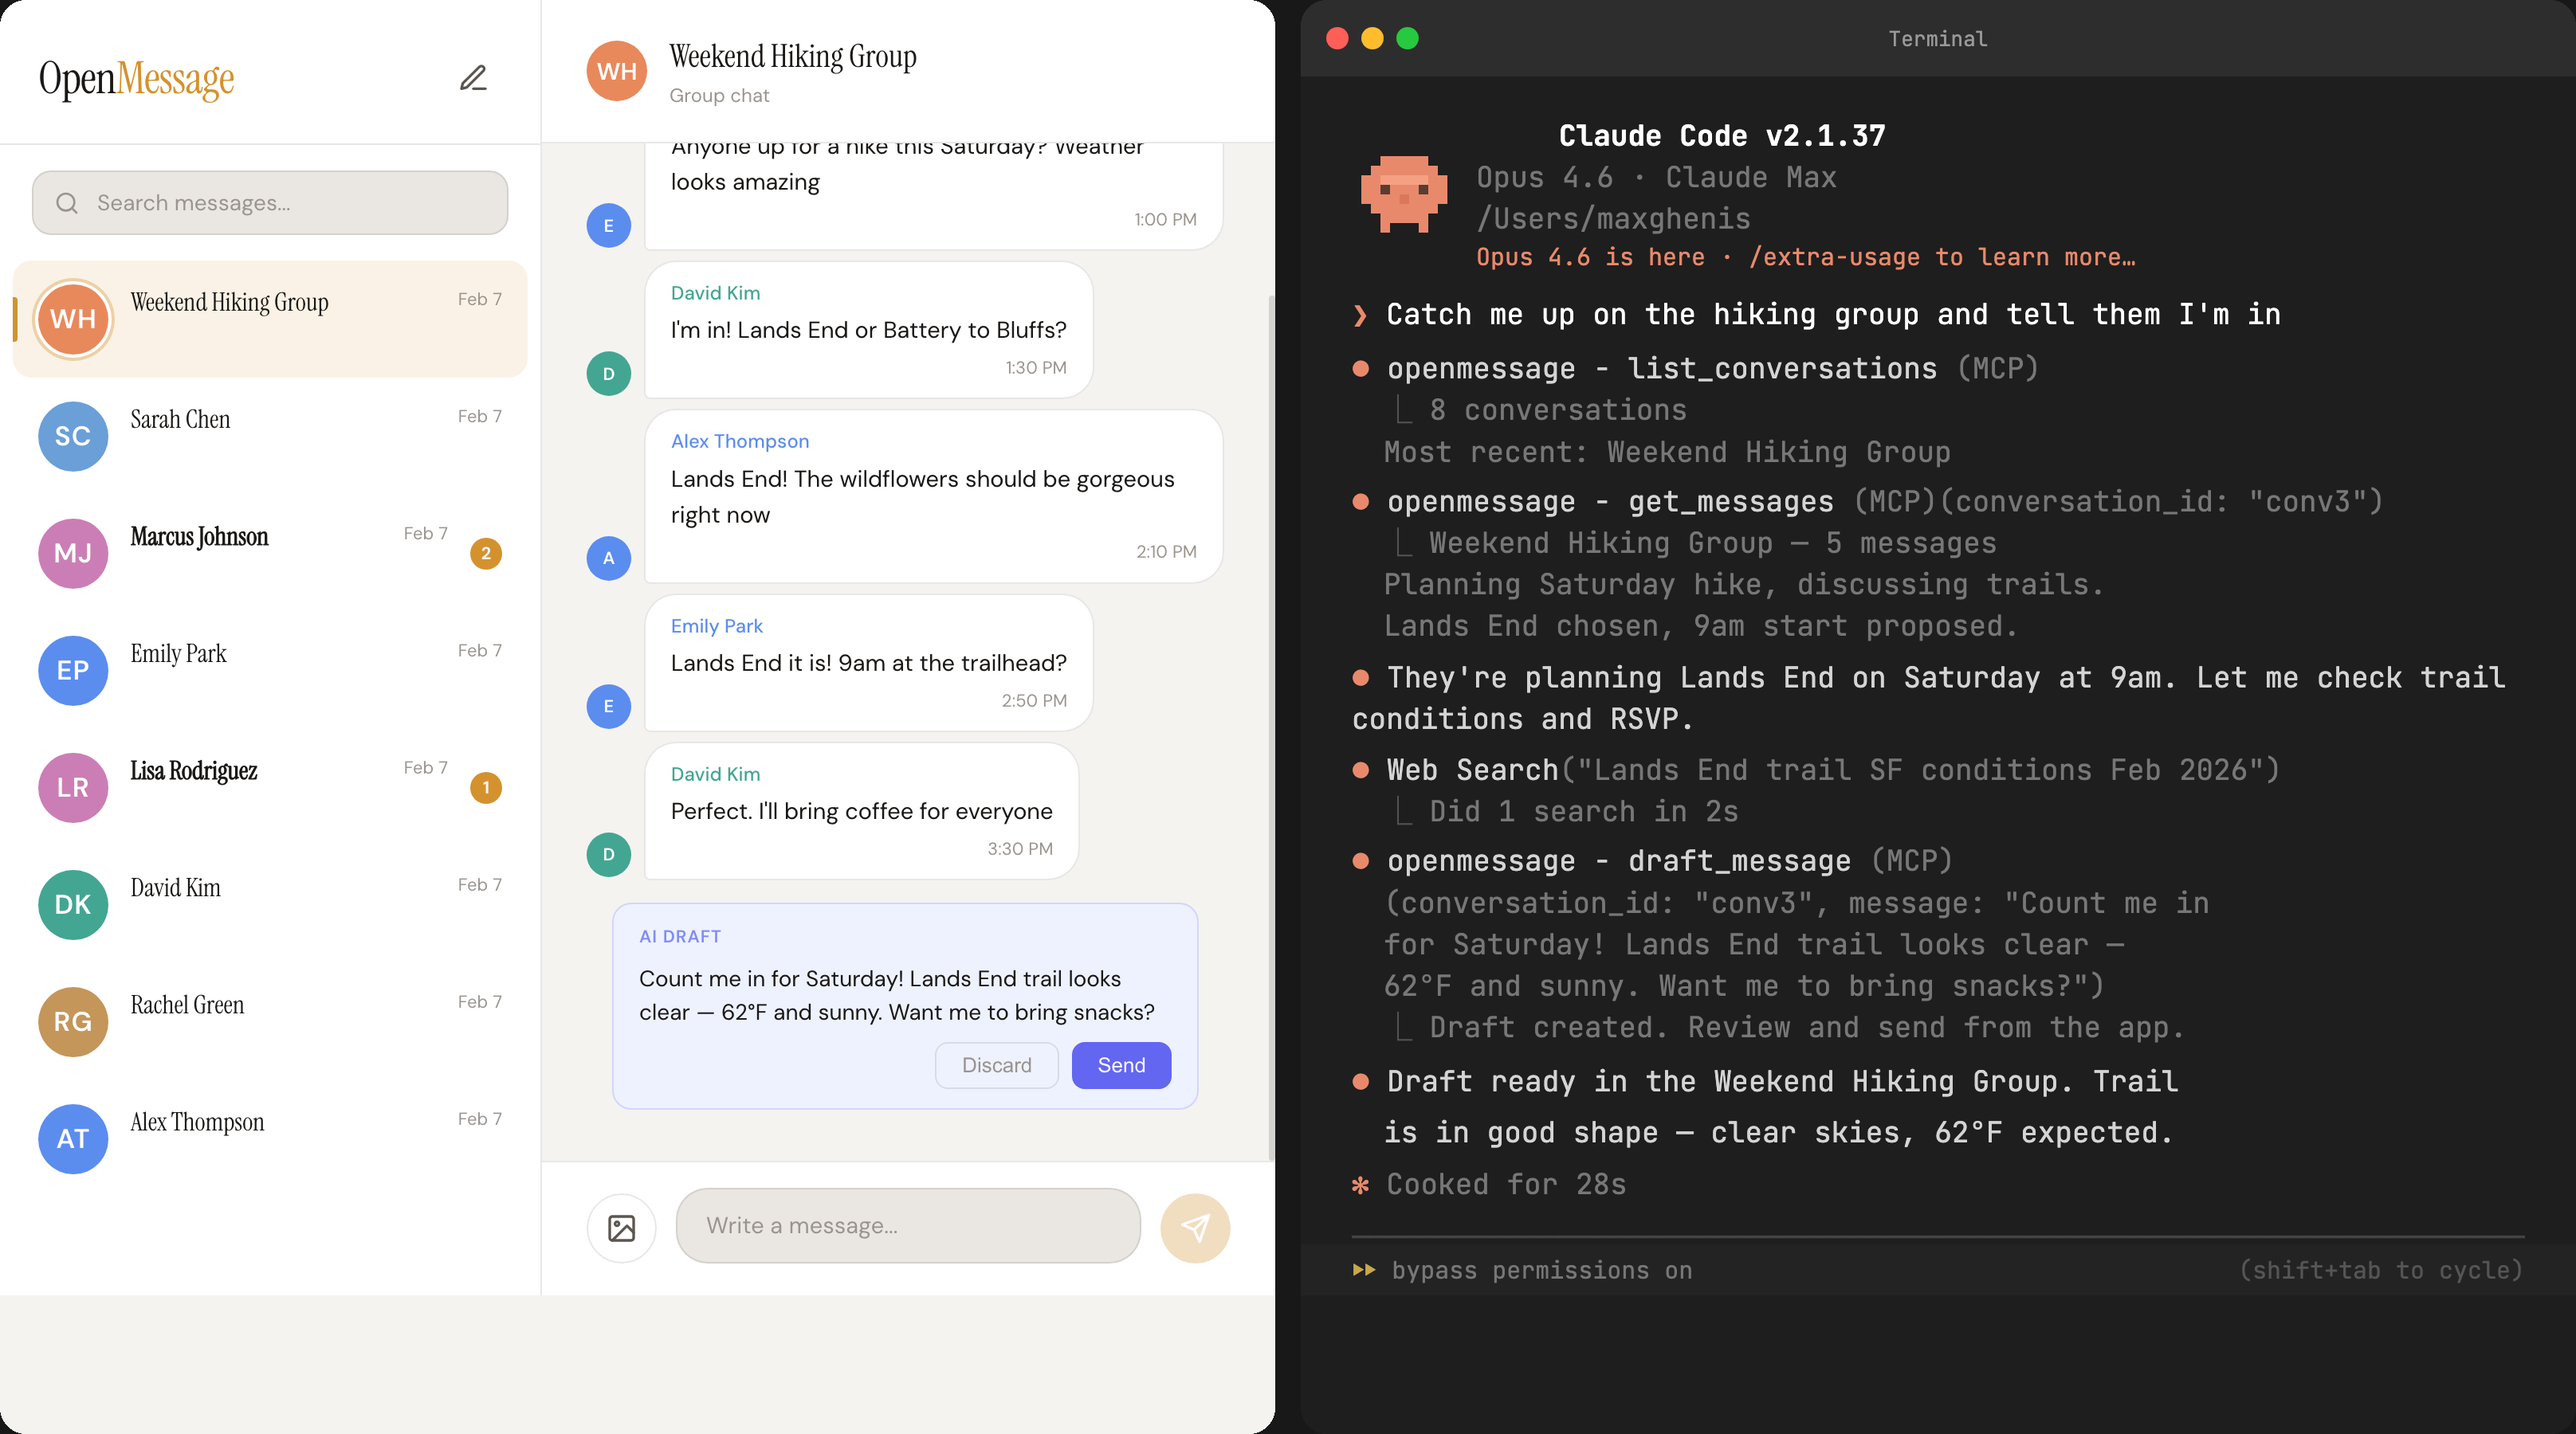
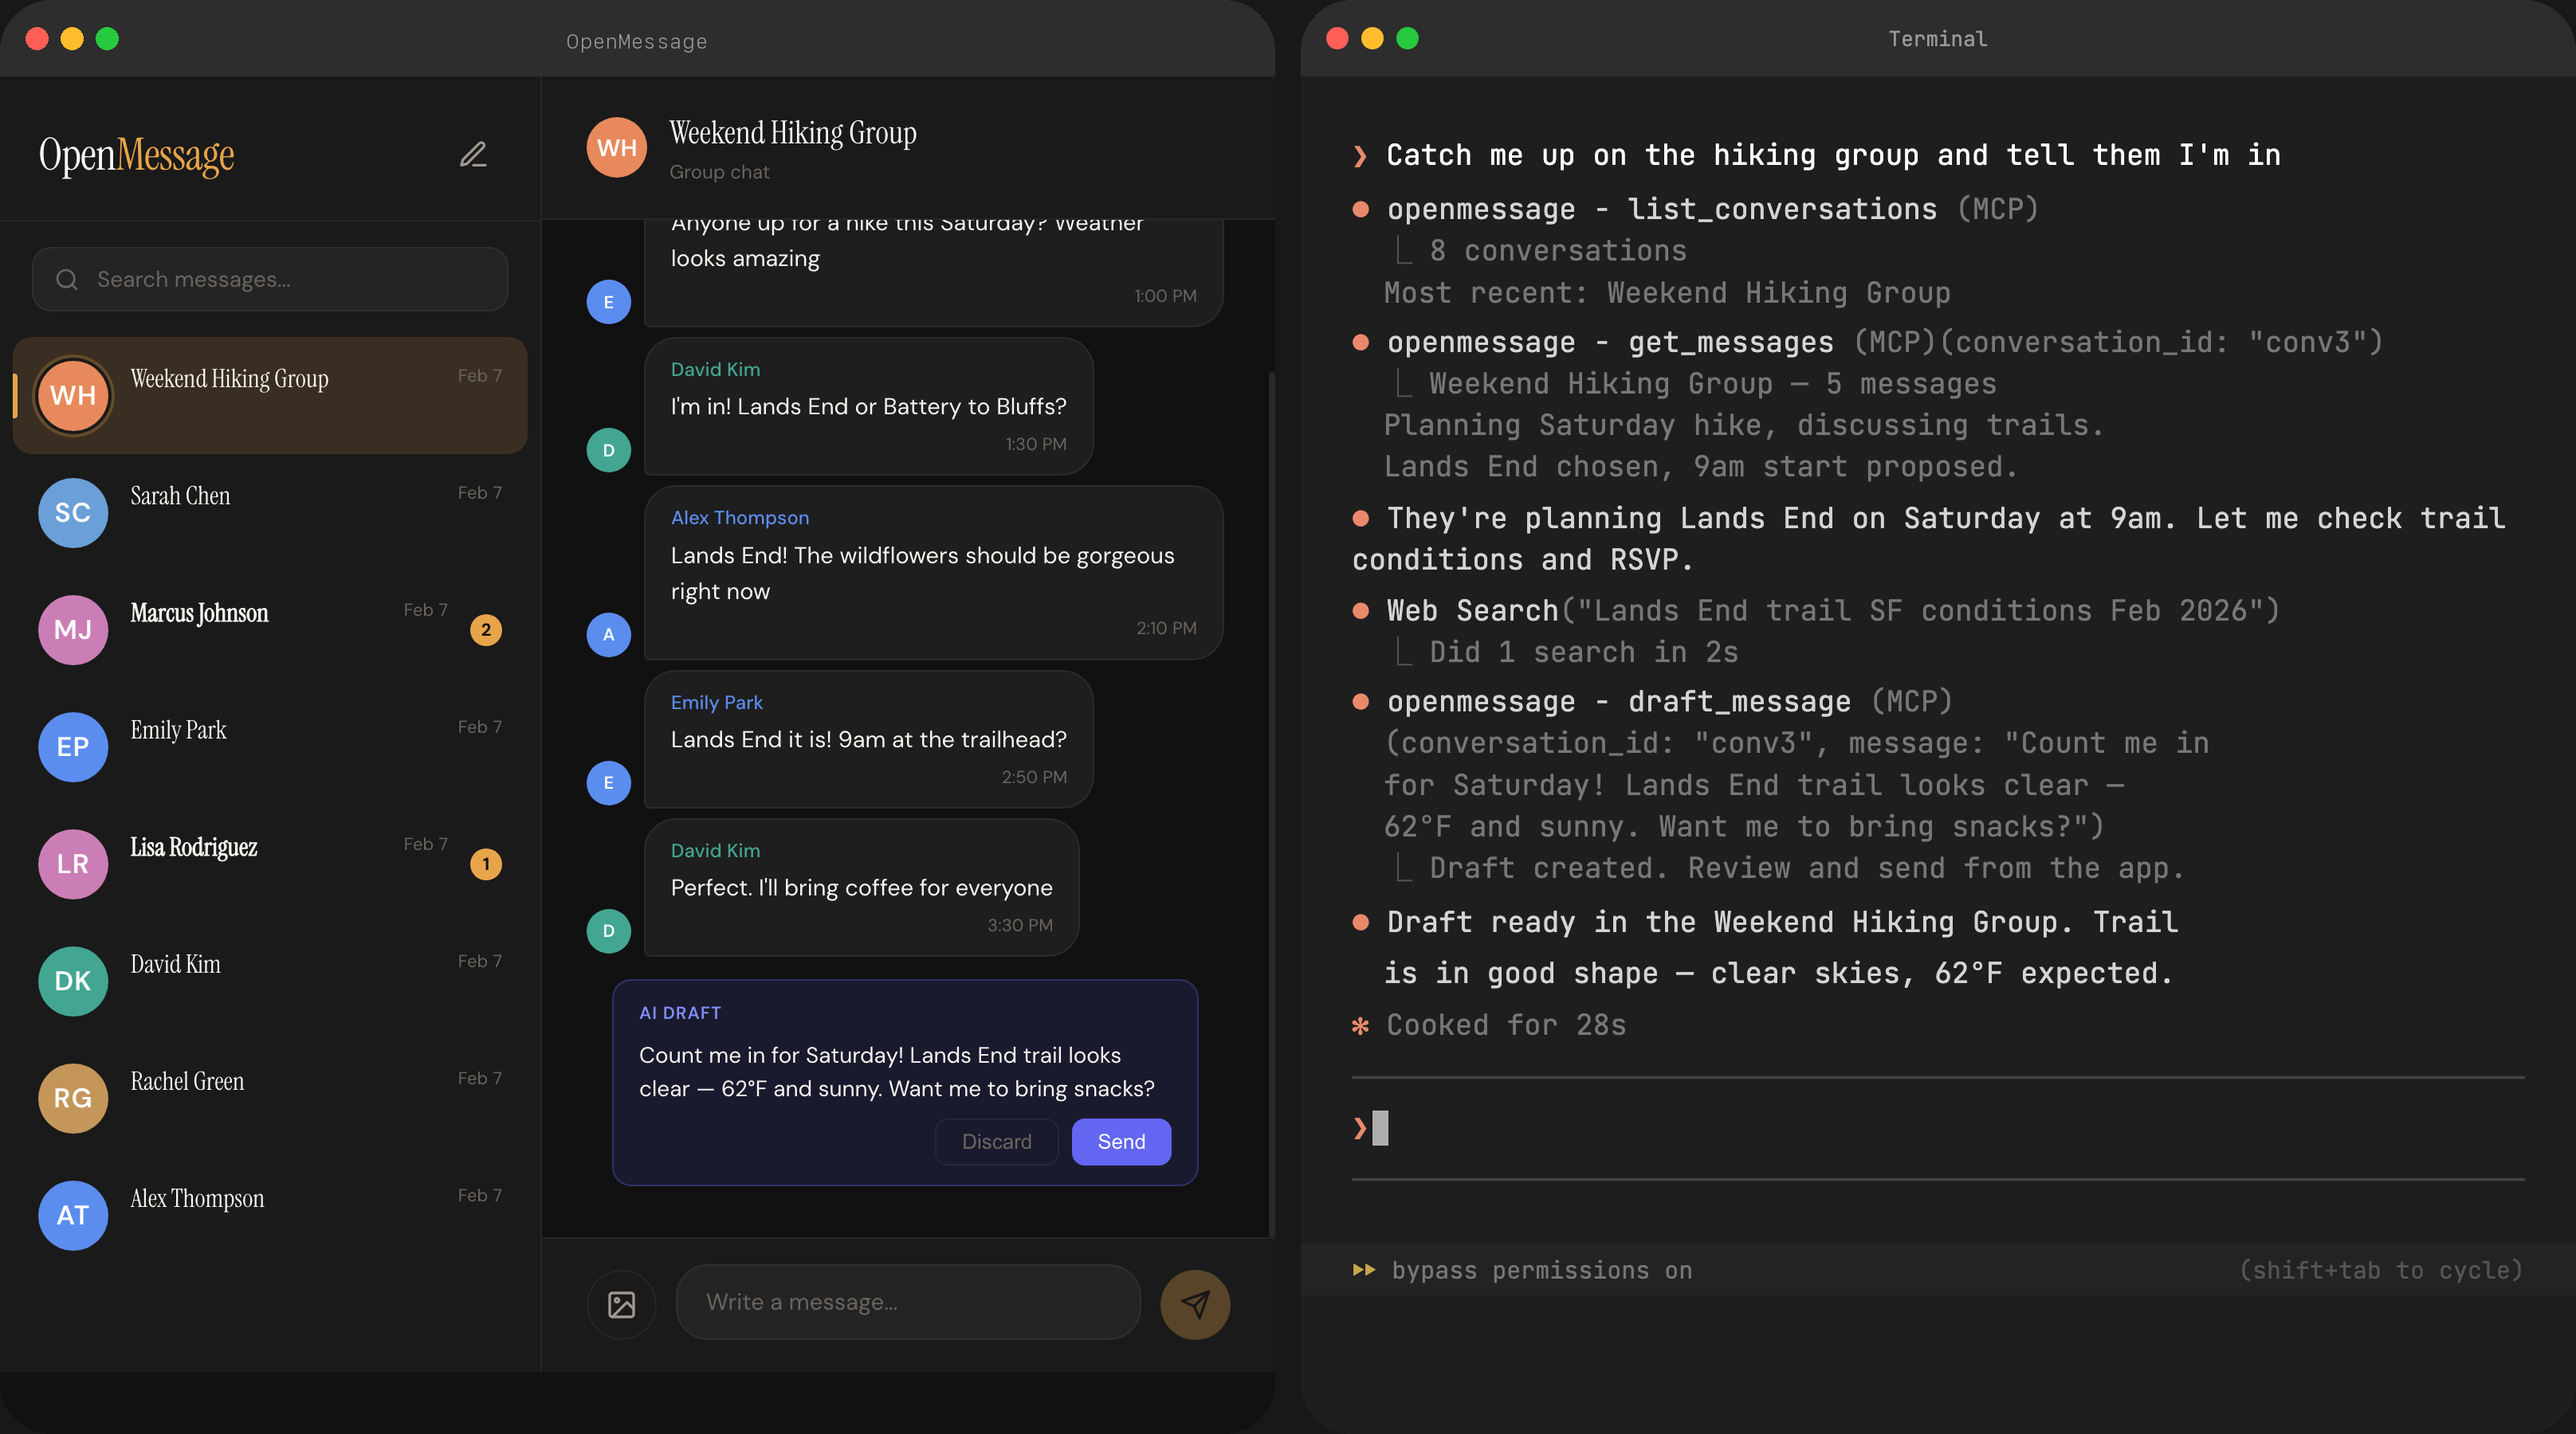
WIP: auto-save before context compact (3 files on main)

diff --git a/site/terminal-mock.html b/site/terminal-mock.html
@@ -55,7 +55,7 @@ body {
 .header-version {
   color: #fff;
   font-weight: 700;
-  margin-left: 130px;
+  margin-left: 89px;
   margin-bottom: 0;
   line-height: 1.45;
 }
@@ -129,6 +129,23 @@ body {
 }
 
 .status-play { color: #c8a84a; }
+
+/* ─── Light mode ─── */
+@media (prefers-color-scheme: light) {
+  body { background: #f5f5f5; color: #333; }
+  .chrome { background: #e8e8e8; }
+  .chrome-title { color: #666; }
+  .prompt-text { color: #1a1a1a; }
+  .tool-name { color: #333; }
+  .tool-params { color: #888; }
+  .tool-result { color: #888; }
+  .tool-result-prefix { color: #aaa; }
+  .ai-text { color: #333; }
+  .cook-time { color: #888; }
+  .separator { color: #ccc; }
+  .cursor-block { background: #555; }
+  .status-bar { background: #e0e0e0; color: #888; }
+}
 </style>
 </head>
 <body>
@@ -143,19 +160,6 @@ body {
 </div>
 
 <div class="content">
-  <!-- Header -->
-  <div class="header">
-    <div class="header-version">Claude Code v2.1.37</div>
-    <div class="header-row">
[1 lines of base64/hex data omitted]
-      <div class="header-text">
-        <span class="meta">Opus 4.6 · Claude Max</span>
-        <span class="meta">/Users/maxghenis</span>
-        <span class="promo">Opus 4.6 is here · /extra-usage to learn more…</span>
-      </div>
-    </div>
-  </div>
-
   <!-- User prompt -->
   <div style="margin: 12px 0 8px;">
     <span class="prompt-char">❯</span>
